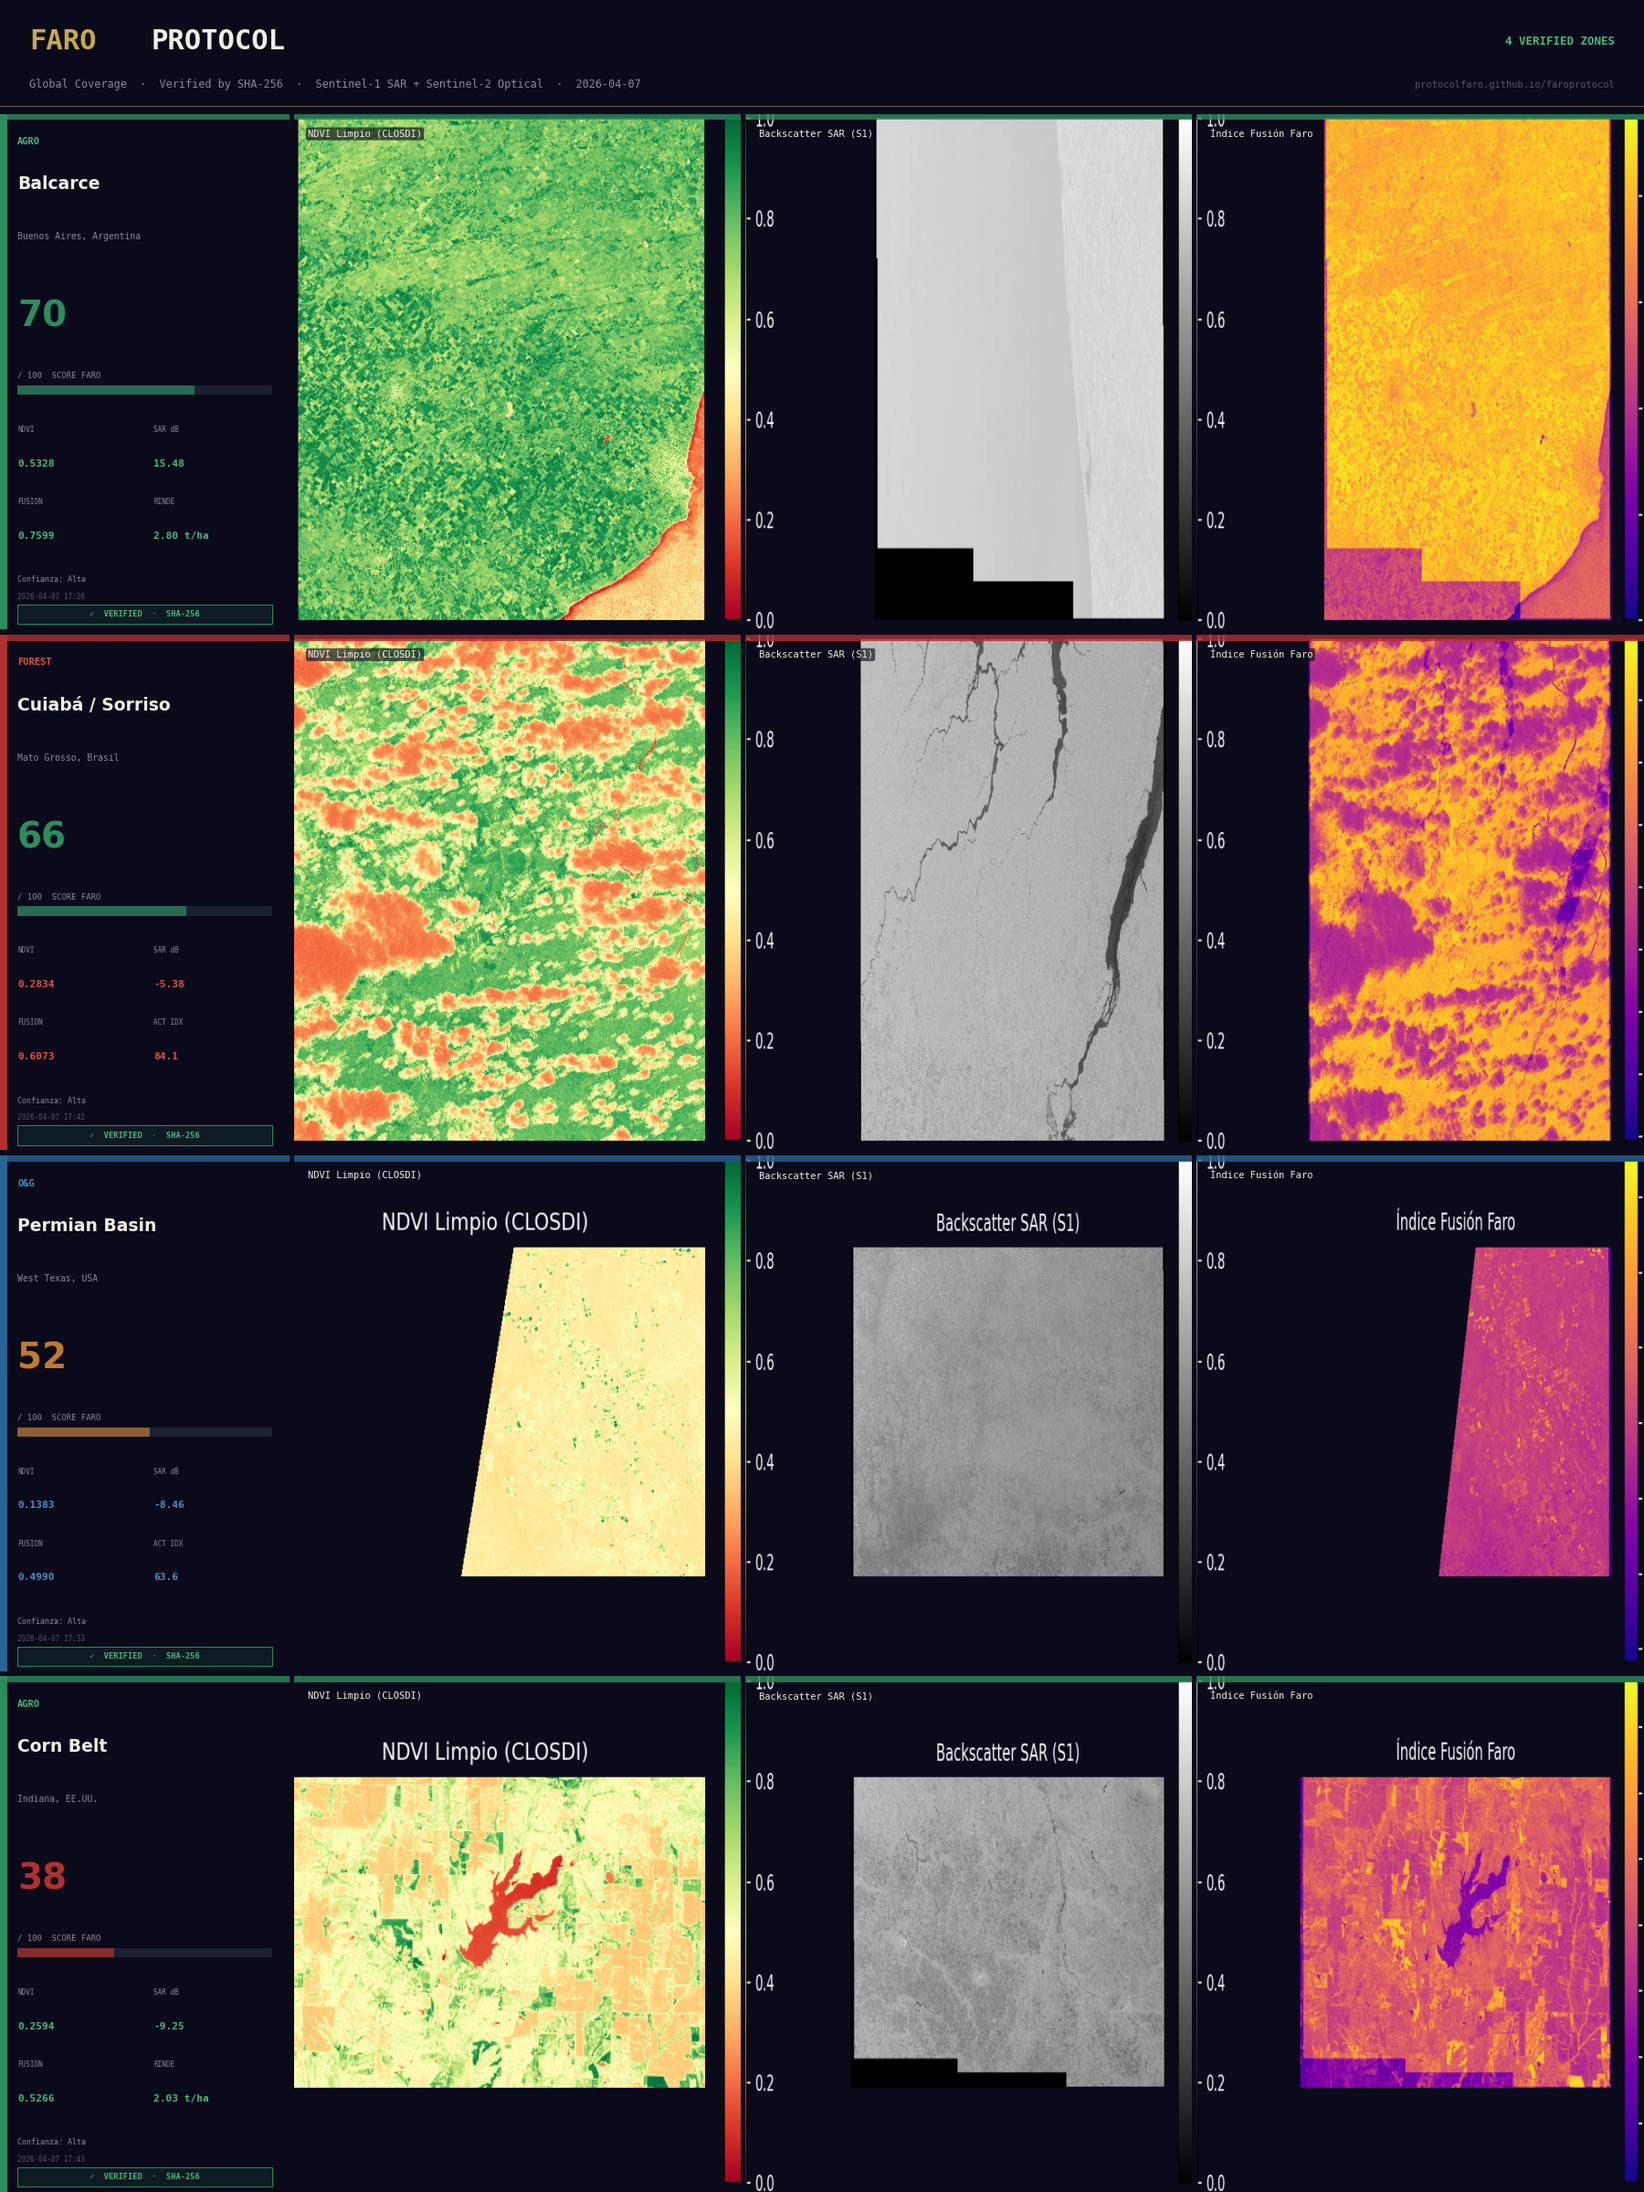
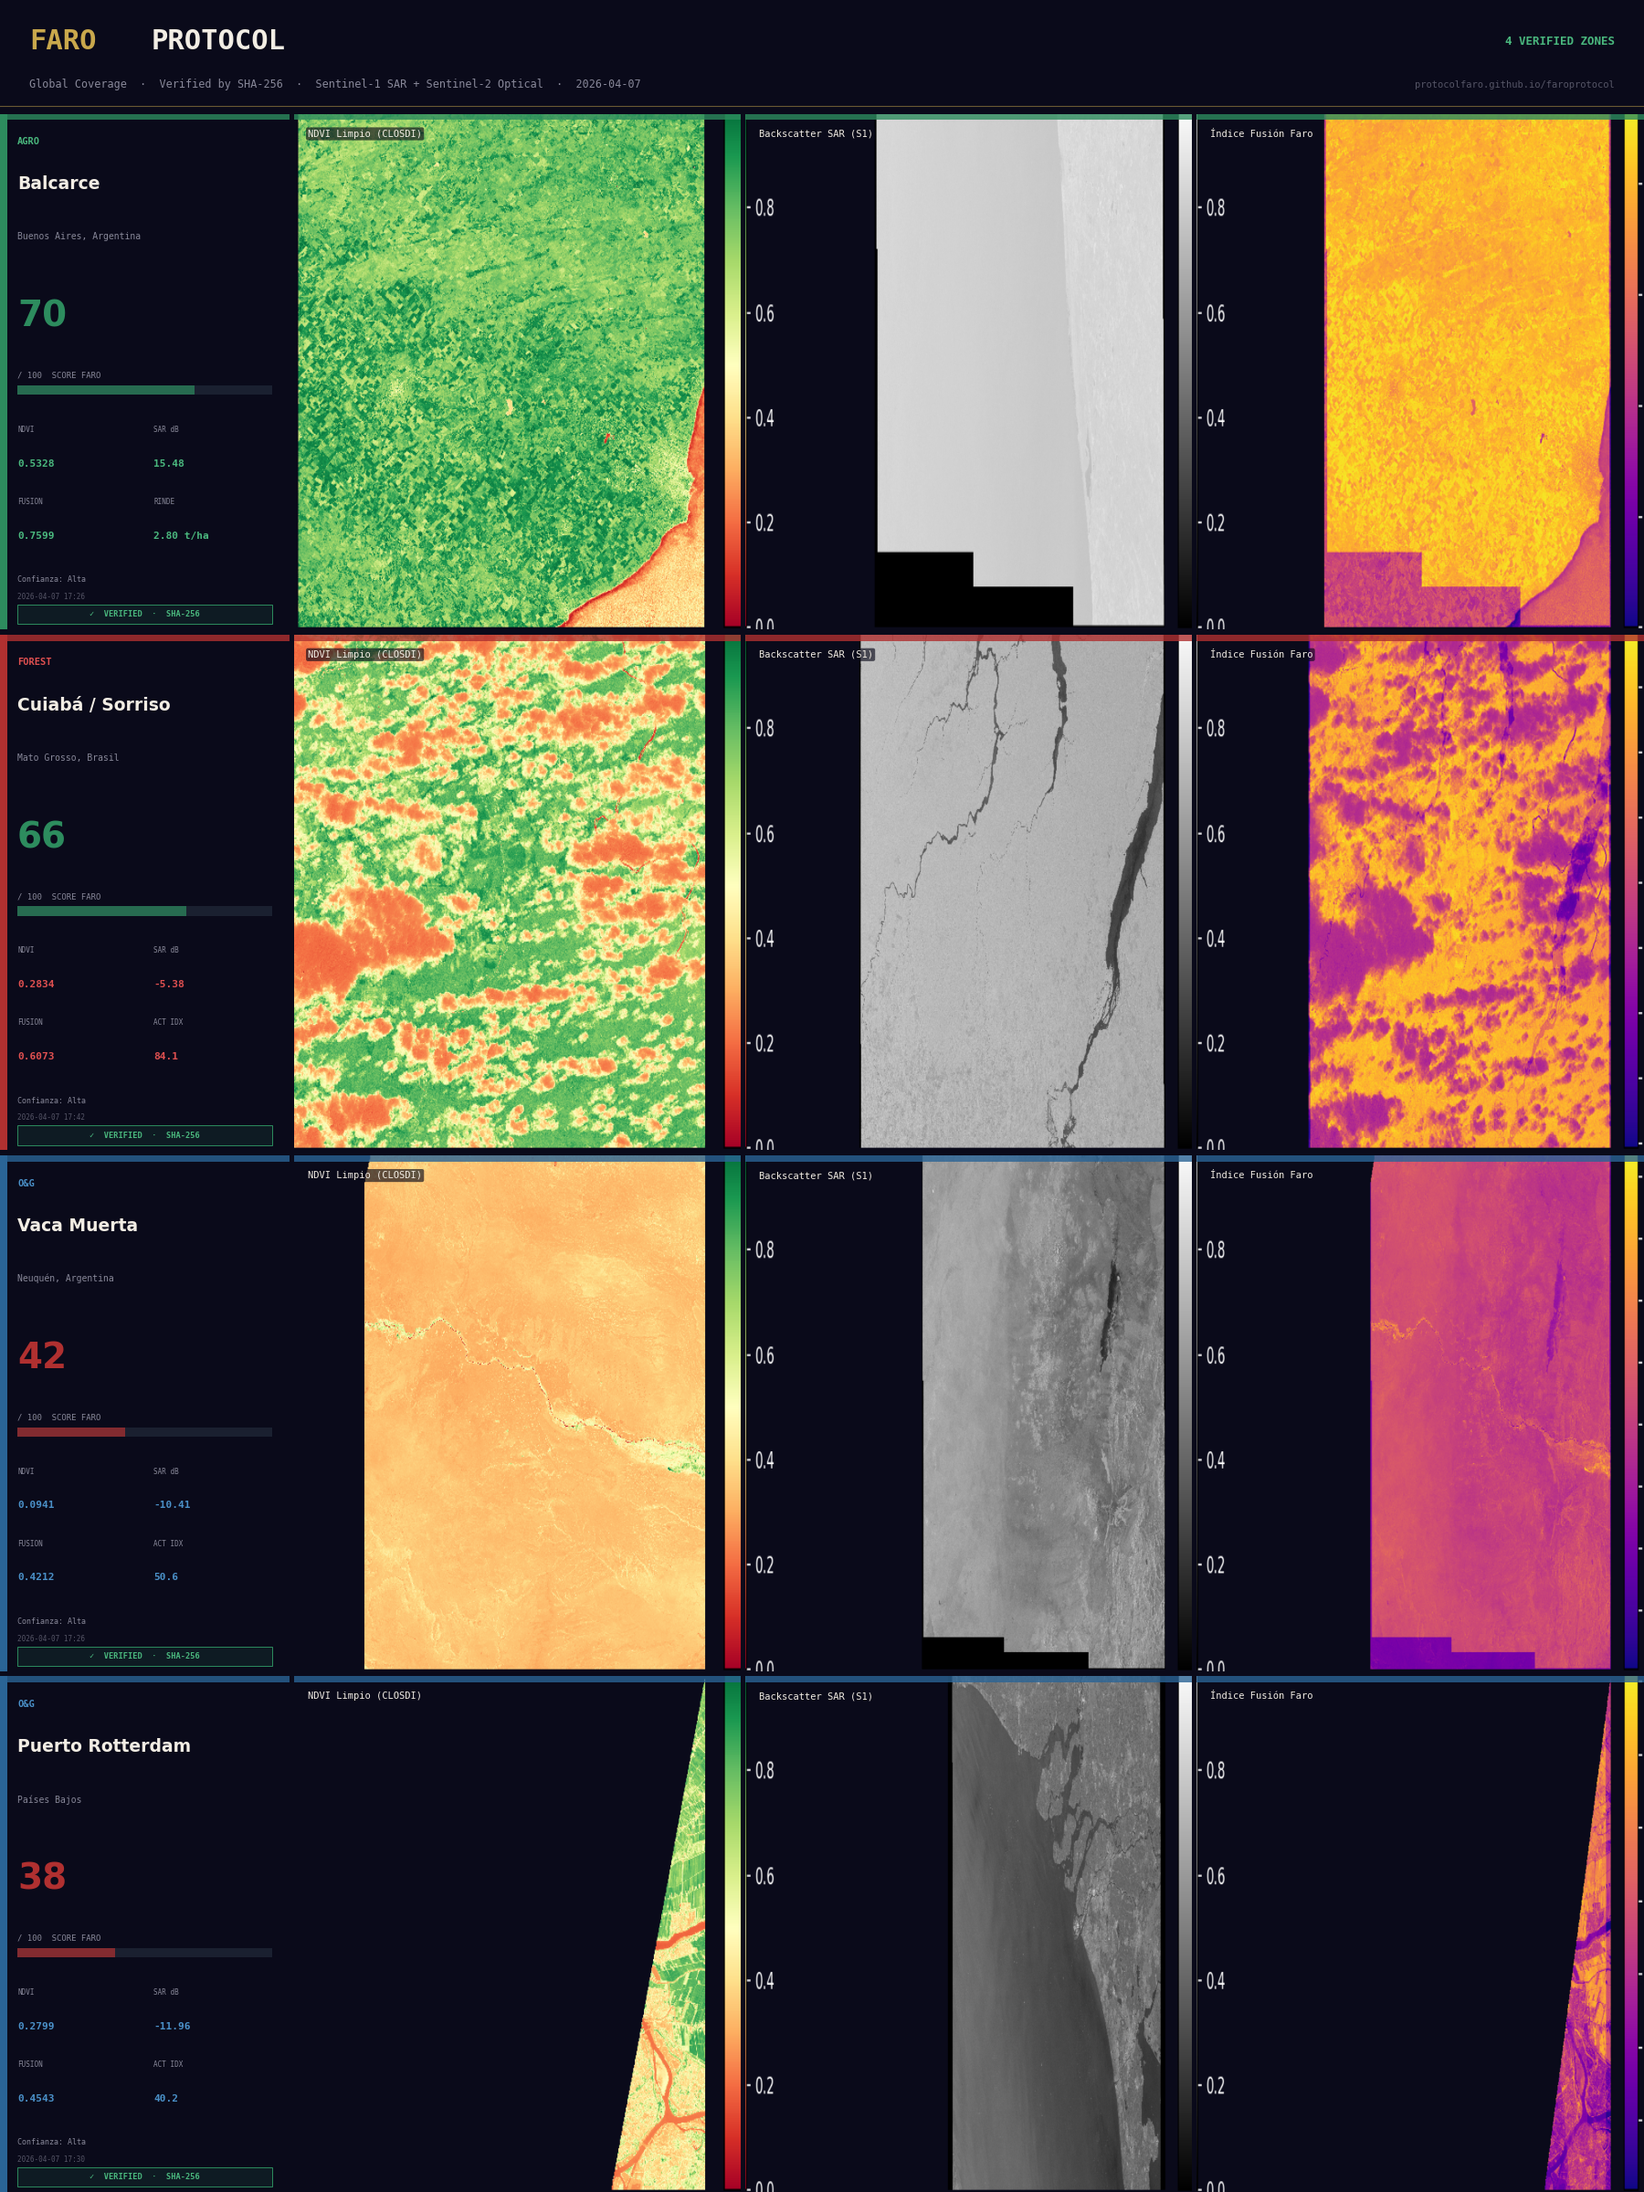
fix: bricolage — zonas y bug de labels duplicados
Zonas: Balcarce · Amazonas · Vaca Muerta · Rotterdam
(reemplaza Permian e Indiana que tenían scores más bajos)

Bug labels: PNG_Y_TOP subido de 160 → 175 para excluir
el texto del título del subplot del PNG fuente, que se
superponía con el label overlay que agrega el script.

diff --git a/faro_bricolage.py b/faro_bricolage.py
@@ -9,10 +9,10 @@ FARO PROTOCOL — Bricolage 1800×2400 px
   - Sello VERIFIED SHA-256 real
 
 Zonas fijas (hardcodeadas por el usuario):
-  1. Balcarce   (Score ≈ 70)
-  2. Amazonas   (Score ≈ 66)
-  3. Permian    (Score ≈ 52)
-  4. Indiana    (Score ≈ 51)
+  1. Balcarce    (Score ≈ 70) — Agro
+  2. Amazonas    (Score ≈ 66) — Forest
+  3. Vaca Muerta            — O&G
+  4. Rotterdam              — Energía/Marítimo
 
 Uso:
     python faro_bricolage.py
@@ -72,7 +72,7 @@ VERTICAL_COLORS = {
 }
 
 # Zonas fijas solicitadas por el usuario
-AREAS = ['balcarce', 'amazonas', 'permian', 'indiana']
+AREAS = ['balcarce', 'amazonas', 'vaca_muerta', 'rotterdam']
 
 # Coordenadas de recorte de los PNG de fusión (empíricas, 2168×1335 px)
 # y_top: primer fila de pixeles de imagen real
@@ -81,8 +81,8 @@ AREAS = ['balcarce', 'amazonas', 'permian', 'indiana']
 #   panel 0 (NDVI):   x= 50 – 590
 #   panel 1 (SAR):    x=592 – 1348
 #   panel 2 (Fusion): x=1348 – 2115
-PNG_Y_TOP  = 160
-PNG_Y_BOT  = 665
+PNG_Y_TOP  = 175   # empieza después del título del subplot (evita label duplicado)
+PNG_Y_BOT  = 658
 PNG_PANELS = [
     (50,   590,  'NDVI Limpio'),
     (592,  1348, 'Backscatter SAR'),
